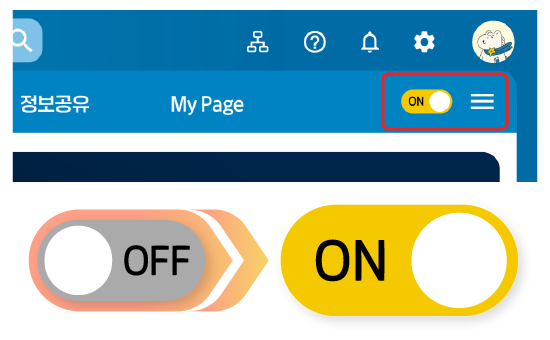
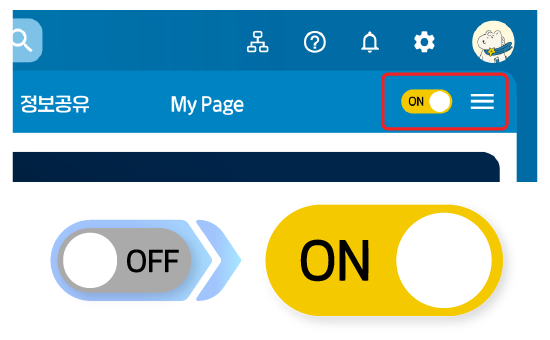
페이지 수정&추가

Changed region(s): [[0.0309, 0.5882, 0.9582, 0.9412]]

diff --git a/pages/L02MAIN.html b/pages/L02MAIN.html
@@ -35,7 +35,7 @@
       <p class="text-center text-sm text-gray-500 mt-3">&#60; 메인화면 영역별 구성 &#62;</p>
     </div>
 
-    <h3 class="mb-15">메인화면은 크게 5가지 영역으로 구성되어 있어요</h3>
+    <h3 class="mb-10">메인화면은 크게 5가지 영역으로 구성되어 있어요</h3>
     <div class="space-y-4 mb-8">
       <div class="flex gap-4 items-start">
         <div
@@ -99,7 +99,7 @@
     <p class="text-xl mb-2 font-bold">내 학교생활의 시작점</p>
     <span class="text-gray-600">목표 및 직무 설정을 기반으로 로드맵을 통해 역량을 키워나가는 주요 메뉴들로 구성되어 있어요</span>
 
-    <hr class="border-t border-dashed border-gray-200 mt-4 mb-5" />
+    <hr class="border-t border-dashed border-gray-200 mt-5 mb-5" />
     <h2 class="text-2xl mb-1 font-bold mt-5 mb-1">2. 검색 및 메뉴창</h2>
     <div class="mb-1">
       <img src="assets/images/jjstar_home_search_desc.webp" alt="검색 시 루틴 안내"
@@ -115,7 +115,7 @@
     <span class="text-gray-600">검색창을 이용해 찾고싶은 내용이 어느 메뉴에 있는지 검색해볼 수 있어요<br>메뉴 위치를 안다면 네비게이션바를 통해 직접 빠르게 이동하는 것도
       가능해요</span>
 
-    <hr class="border-t border-dashed border-gray-200 mt-4 mb-5" />
+    <hr class="border-t border-dashed border-gray-200 mt-5 mb-5" />
     <h2 class="text-2xl mb-1 font-bold mt-5 mb-1">3. 원스톱 서비스</h2>
     <div class="mb-3">
       <img src="assets/images/jjstar_home_onestop.webp" alt="수강신청 관련 원스톱 서비스 예시"
@@ -125,7 +125,7 @@
     <p class="text-xl mb-2 font-bold">혼자서도 착착</p>
     <span class="text-gray-600">어! 그거 언제 어디서 신청하더라?<br>걱정하지 마세요 JJSTAR가 기간에 맞춰 안내해드려요</span>
 
-    <hr class="border-t border-dashed border-gray-200 mt-4 mb-5" />
+    <hr class="border-t border-dashed border-gray-200 mt-5 mb-5" />
     <h2 class="text-2xl mb-1 font-bold mt-5 mb-1">4. 나의 메뉴</h2>
     <div class="mb-3">
       <img src="assets/images/jjstar_home_mymenu.webp" alt="나의 메뉴 예시"
@@ -135,7 +135,7 @@
     <p class="text-xl mb-2 font-bold">세상 하나뿐인 나만의 메뉴바</p>
     <span class="text-gray-600">진정한 딸깍-<br>자주 사용하는 메뉴로 바로 이동하는 원클릭 서비스</span>
 
-    <hr class="border-t border-dashed border-gray-200 mt-4 mb-5" />
+    <hr class="border-t border-dashed border-gray-200 mt-5 mb-5" />
     <h2 class="text-2xl mb-1 font-bold mt-5 mb-1">5. 나의 콘텐츠</h2>
     <div class="mb-3">
       <img src="assets/images/jjstar_home_mycontents.webp" alt="나의 콘텐츠 예시"
